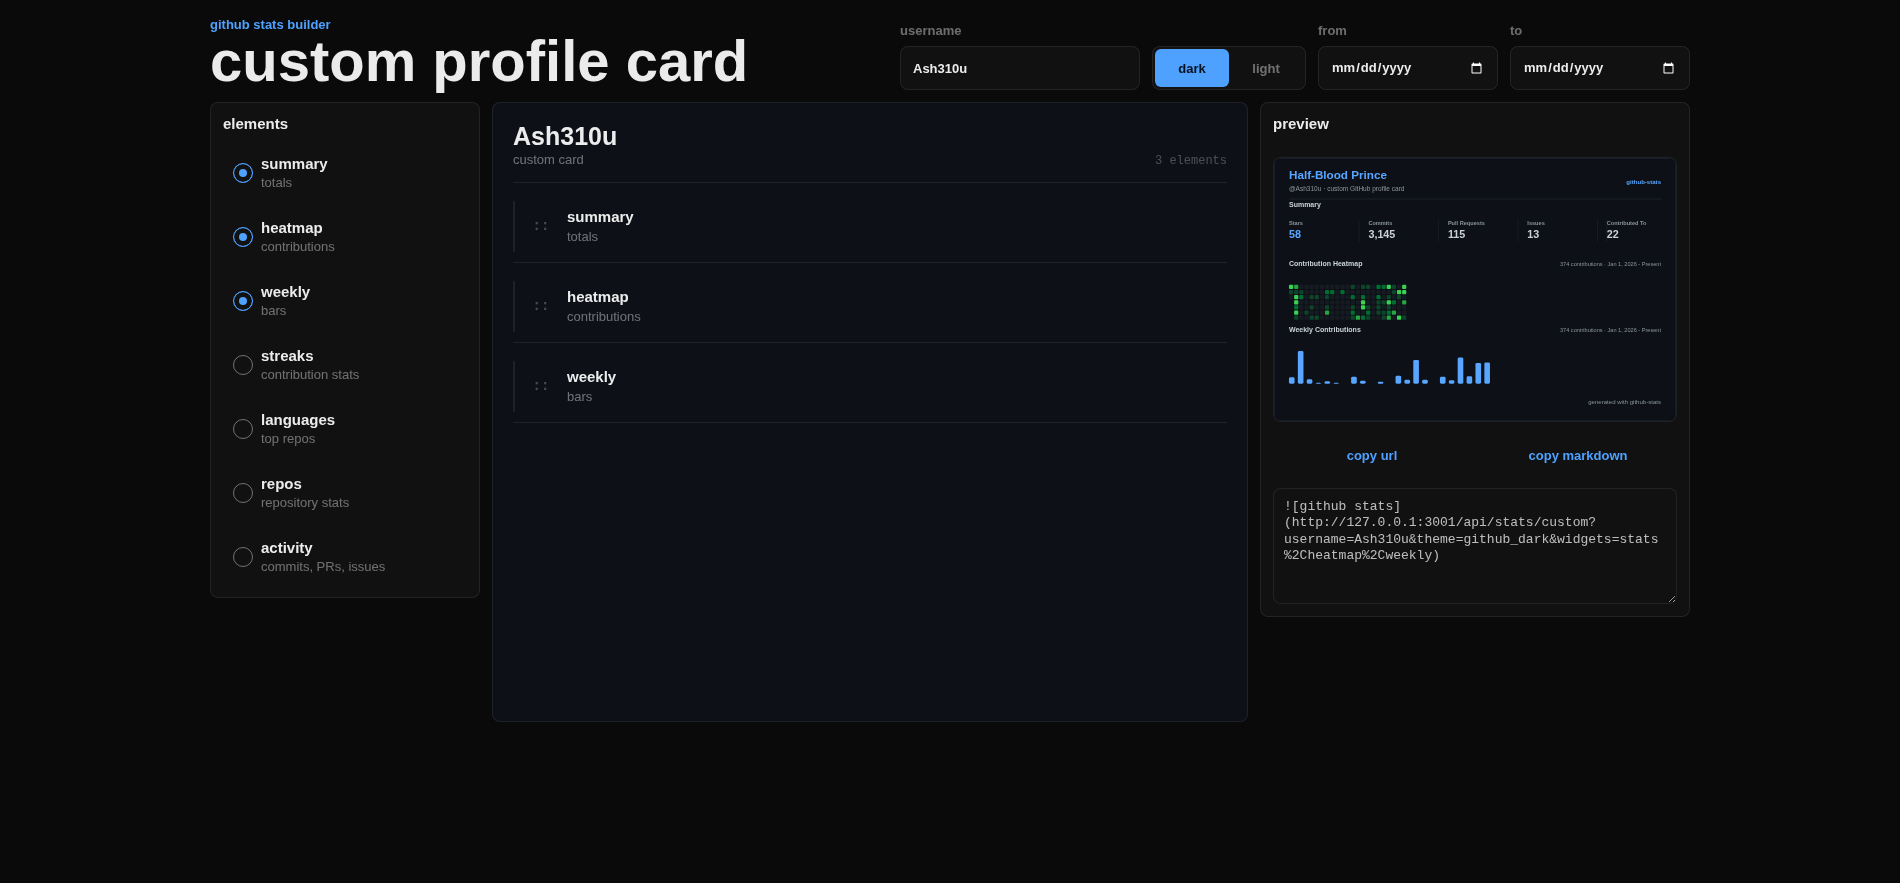
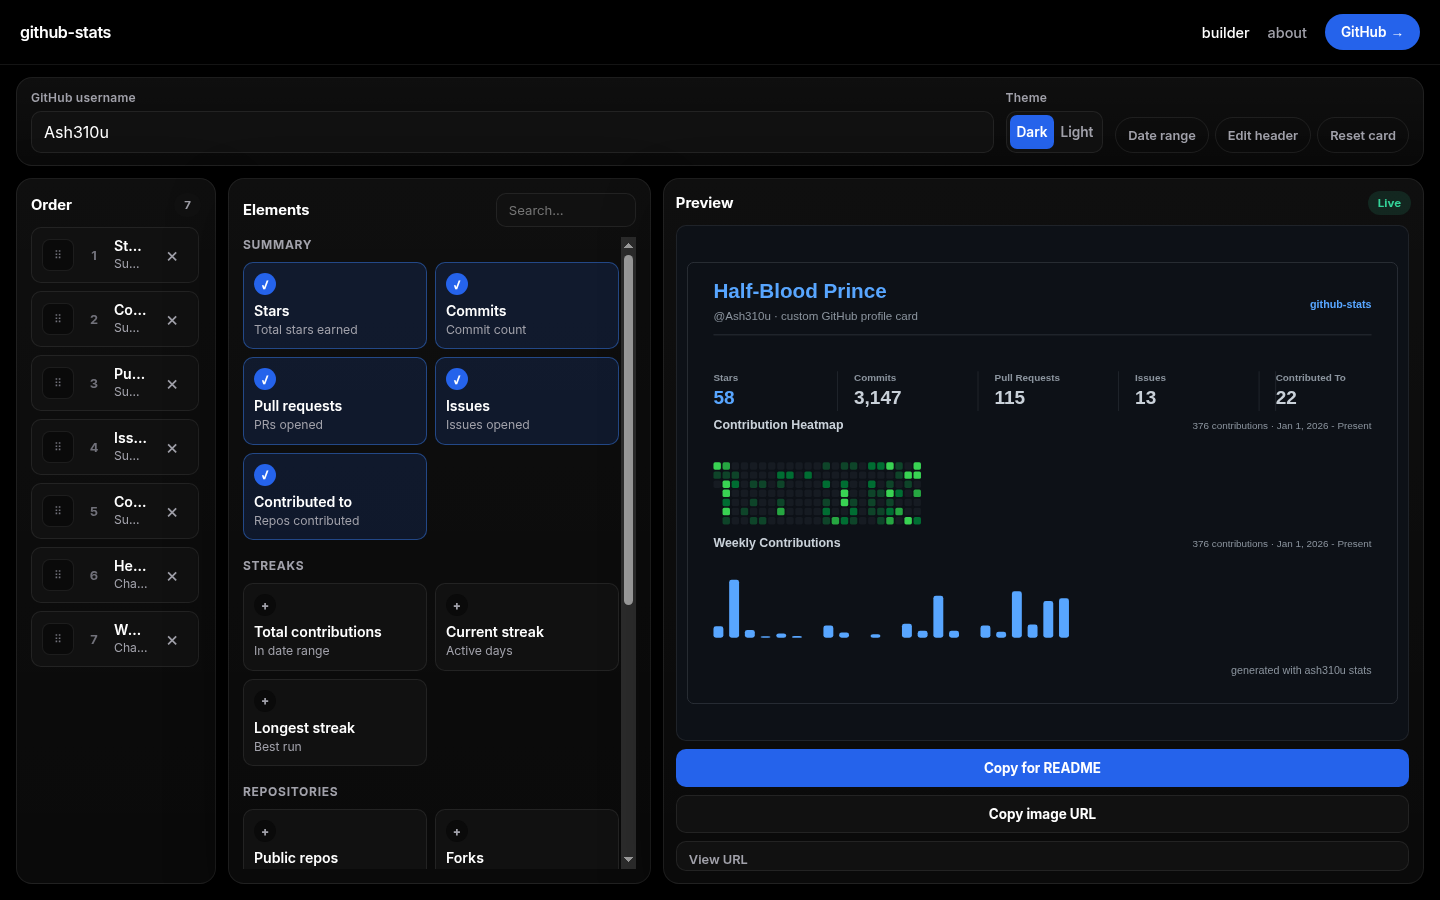
updte the whole ui and add builder's details

diff --git a/README.md b/README.md
@@ -4,6 +4,8 @@ A growing API for generating GitHub stats cards, contribution charts, and profil
 
 ![GitHub stats builder preview](./builder-preview.png)
 
+![About page preview](./about-preview.png)
+
 ![Custom GitHub stats card preview](./custom-card-preview.png)
 
 ## Use The API
@@ -36,16 +38,24 @@ Use a dark GitHub-style theme:
 ![GitHub Stats](https://api-github-readme-stats.vercel.app/api/stats?username=Ash310u&theme=github_dark)
 ```
 
-Build a custom dark card in the browser:
+Build a custom card in the browser:
 
 ```text
 https://api-github-readme-stats.vercel.app/
 ```
 
+The builder is a single-screen dashboard. Pick individual stats and charts, drag to reorder them, edit the card header, and copy a Markdown snippet or image URL. Visit `/about` for project and creator details.
+
 Or use the custom card endpoint directly:
 
 ```md
-![Custom GitHub Stats](https://api-github-readme-stats.vercel.app/api/stats/custom?username=Ash310u&theme=github_dark&widgets=stats,heatmap,weekly)
+![Custom GitHub Stats](https://api-github-readme-stats.vercel.app/api/stats/custom?username=Ash310u&theme=github_dark&elements=stars,commits,prs,issues,contributed,heatmap,weekly)
+```
+
+Customize the card header:
+
+```md
+![Custom GitHub Stats](https://api-github-readme-stats.vercel.app/api/stats/custom?username=Ash310u&theme=github_dark&elements=stars,commits,prs,issues,contributed,heatmap,weekly&title=Half-Blood%20Prince&subtitle=%40Ash310u%20%C2%B7%20custom%20GitHub%20profile%20card&badge=github-stats)
 ```
 
 Get raw JSON instead of an SVG:
@@ -53,15 +63,17 @@ Get raw JSON instead of an SVG:
 ```text
 https://api-github-readme-stats.vercel.app/api/stats?username=Ash310u&format=json
 https://api-github-readme-stats.vercel.app/api/stats/chart?username=Ash310u&format=json
-https://api-github-readme-stats.vercel.app/api/stats/custom?username=Ash310u&widgets=stats,heatmap,weekly&format=json
+https://api-github-readme-stats.vercel.app/api/stats/custom?username=Ash310u&elements=stars,commits,prs,issues,contributed,heatmap,weekly&format=json
 ```
 
 ## Endpoints
 
 | Endpoint | Description |
 | --- | --- |
+| `/` | Browser builder for composing custom cards. |
+| `/about` | About page with creator details and a link back to the builder. |
 | `/api/stats` | Summary card with stars, commits, pull requests, issues, and repositories contributed to. |
-| `/api/stats/custom` | One combined SVG card made from selected draggable widgets in the builder. |
+| `/api/stats/custom` | One combined SVG card made from individually selected elements. |
 | `/api/stats/chart` | Contribution metrics with total contributions, current streak, and longest streak. |
 | `/api/stats/languages` | Horizontal bar chart of top programming languages by repository count. |
 | `/api/stats/repos` | Repository-focused card with forks, stars, followers, and following. |
@@ -77,9 +89,45 @@ https://api-github-readme-stats.vercel.app/api/stats/custom?username=Ash310u&wid
 | `username` | Yes | none | Any GitHub username | The profile to show stats for. |
 | `theme` | No | `github_light` | `github_light`, `github_dark`, `light`, `dark` | Changes the SVG colors. |
 | `format` | No | `svg` | `svg`, `json` | Returns an image card or raw stats data. |
-| `widgets` | No | `stats,heatmap,weekly` | `stats`, `heatmap`, `weekly`, `chart`, `languages`, `repos`, `activity` | Comma-separated widget list for `/api/stats/custom`. |
+| `elements` | No | `stars,commits,prs,issues,contributed,heatmap,weekly` | See custom elements below | Comma-separated element list for `/api/stats/custom`. |
+| `title` | No | empty | Up to 60 characters | Custom card title shown in the header. |
+| `subtitle` | No | empty | Up to 60 characters | Custom subtitle shown below the title. |
+| `badge` | No | `github-stats` | Up to 60 characters | Badge text shown in the top-right corner. |
+| `widgets` | No | none | `stats`, `heatmap`, `weekly`, `chart`, `languages`, `repos`, `activity` | Legacy widget groups. Expands into `elements` when `elements` is omitted. |
 | `from` | No | Jan 1 of the current year | `YYYY-MM-DD` | Start date for contribution-based cards (`chart`, `heatmap`, `weekly`). |
 | `to` | No | Today | `YYYY-MM-DD` | End date for contribution-based cards (`chart`, `heatmap`, `weekly`). |
+
+### Custom Elements
+
+Use `elements` to pick individual stats and charts for `/api/stats/custom`:
+
+| Element | Type | Description |
+| --- | --- | --- |
+| `stars` | metric | Total stars across public repositories. |
+| `commits` | metric | Total commits authored by the user. |
+| `prs` | metric | Total pull requests opened by the user. |
+| `issues` | metric | Total issues opened by the user. |
+| `contributed` | metric | Repositories contributed to. |
+| `total_contributions` | metric | Total contributions in the selected date range. |
+| `current_streak` | metric | Current contribution streak. |
+| `longest_streak` | metric | Longest contribution streak. |
+| `public_repos` | metric | Public repository count. |
+| `forks` | metric | Total forks across public repositories. |
+| `repo_stars` | metric | Total stars across public repositories. |
+| `followers` | metric | Follower count. |
+| `following` | metric | Following count. |
+| `heatmap` | chart | GitHub-style contribution heatmap grid. |
+| `weekly` | chart | Weekly contribution bar chart. |
+| `languages` | chart | Top programming languages by repository count. |
+| `activity` | chart | Stacked bar chart of commits, pull requests, and issues. |
+
+Example:
+
+```text
+/api/stats/custom?username=Ash310u&theme=github_dark&elements=stars,prs,issues,heatmap
+```
+
+The card footer is fixed as `generated with ash310u stats` and is not customizable.
 
 ## Stats Shown
 
@@ -124,9 +172,11 @@ The weekly chart shows:
 
 The custom card builder shows:
 
-- A React drag-and-drop editor at `/`.
-- A black card canvas by default.
+- A React dashboard at `/` with order, element picker, and live preview columns.
+- Drag-and-drop reordering for selected elements.
+- Optional card header text and a date range picker.
 - A generated `/api/stats/custom` image URL and Markdown snippet for profile READMEs.
+- An About page at `/about` with creator details and social links.
 
 ## GitHub Token
 
@@ -163,6 +213,10 @@ src/
   services/        GitHub REST, GraphQL, and stats data logic
   utils/           Formatting and escaping helpers
   server.js        Node HTTP server entrypoint
+public/
+  app.js           Builder dashboard
+  site.js          Navigation, About page, and footer
+  styles.css       Shared site styles
 ```
 
 ## Run Locally
@@ -194,6 +248,8 @@ http://localhost:3000
 Try it locally:
 
 ```text
+http://localhost:3000/
+http://localhost:3000/about
 http://localhost:3000/api/stats?username=Ash310u
 http://localhost:3000/api/stats/chart?username=Ash310u
 http://localhost:3000/api/stats/languages?username=Ash310u
@@ -201,6 +257,7 @@ http://localhost:3000/api/stats/repos?username=Ash310u
 http://localhost:3000/api/stats/activity?username=Ash310u
 http://localhost:3000/api/stats/heatmap?username=Ash310u
 http://localhost:3000/api/stats/weekly?username=Ash310u
+http://localhost:3000/api/stats/custom?username=Ash310u&elements=stars,commits,prs,issues,contributed,heatmap,weekly
 ```
 
 If port `3000` is already busy, use another port: